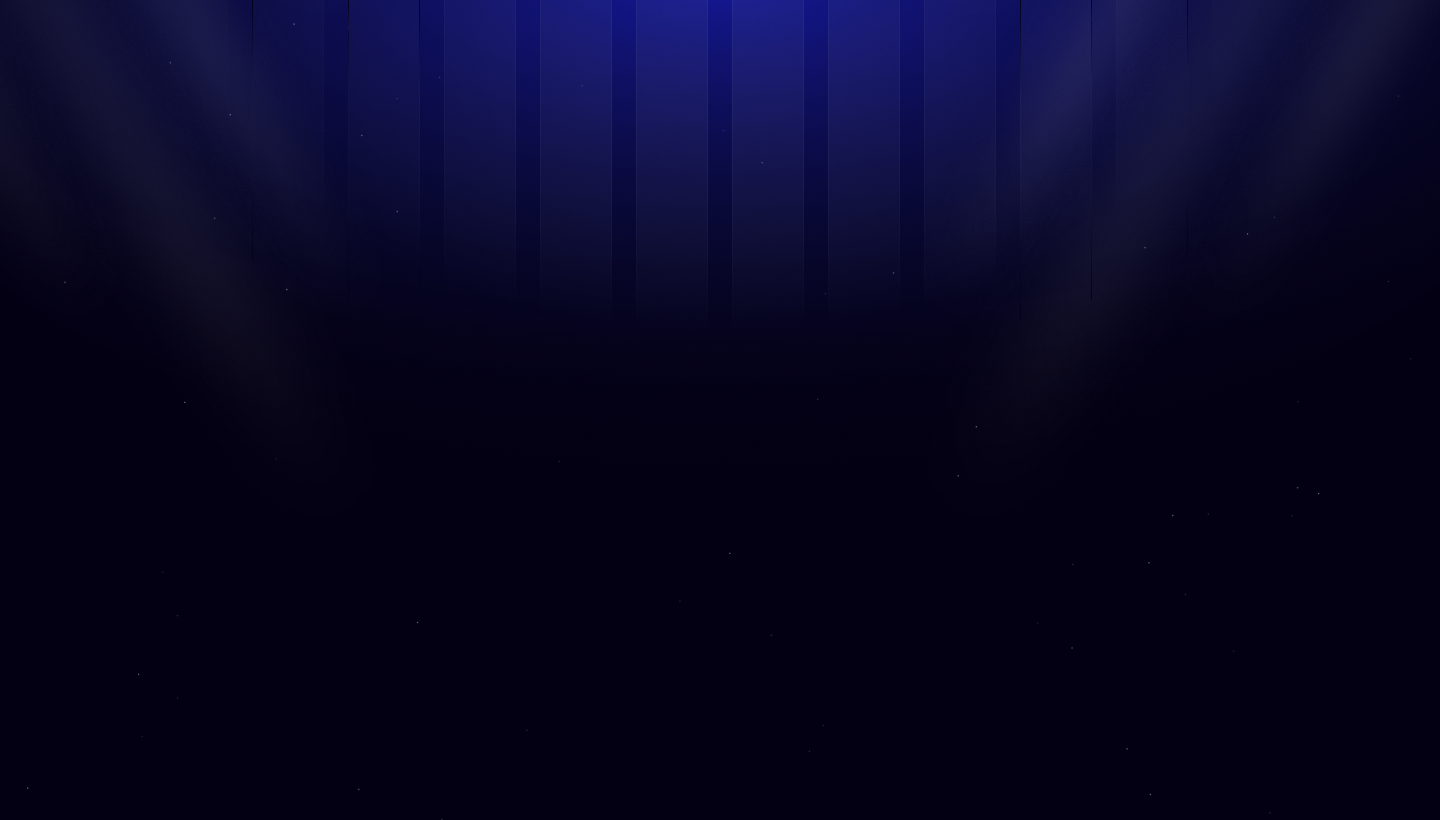
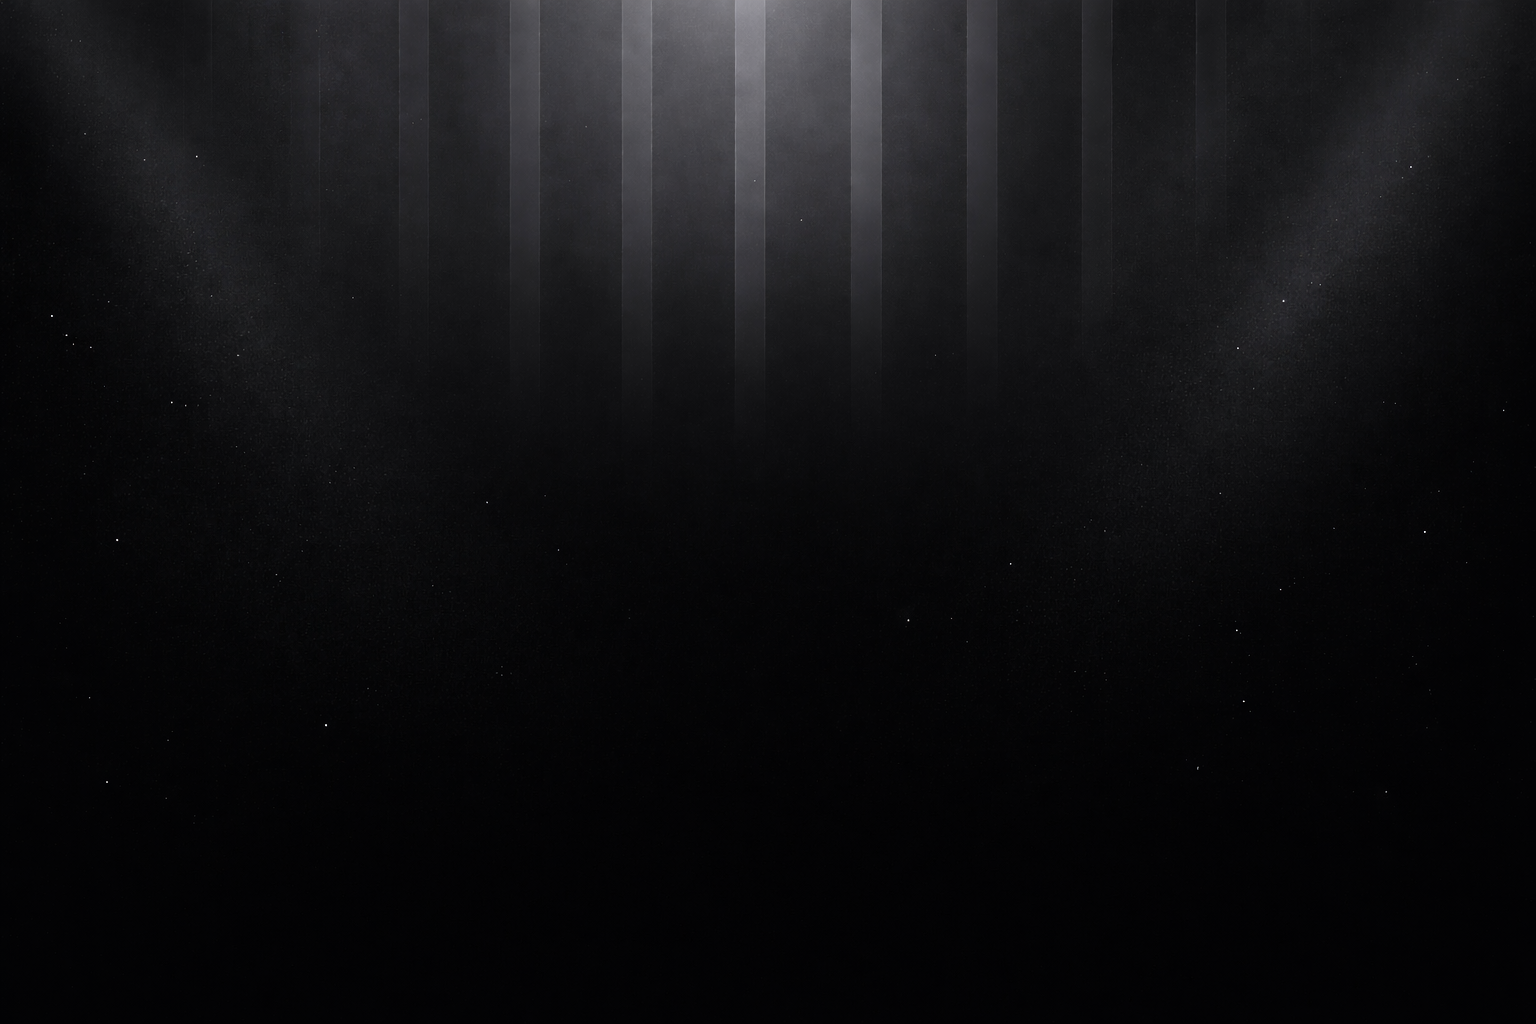
remade the theme of the website to a more darker vibe

Changed region(s): [[0.0, 0.0, 0.9688, 0.3963], [0.9688, 0.0, 1.0, 0.0305]]

diff --git a/Movie-react/src/components/Spinner.jsx b/Movie-react/src/components/Spinner.jsx
@@ -1,0 +1,17 @@
+import React from 'react'
+
+const Spinner = () => {
+  return (
+    <div>
+<div role="status">
+    <svg aria-hidden="true" class="w-8 h-8 text-neutral-tertiary animate-spin fill-zinc-700 hover:fill-zinc-600" viewBox="0 0 100 101" fill="none" xmlns="http://www.w3.org/2000/svg">
+        <path d="M100 50.5908C100 78.2051 77.6142 100.591 50 100.591C22.3858 100.591 0 78.2051 0 50.5908C0 22.9766 22.3858 0.59082 50 0.59082C77.6142 0.59082 100 22.9766 100 50.5908ZM9.08144 50.5908C9.08144 73.1895 27.4013 91.5094 50 91.5094C72.5987 91.5094 90.9186 73.1895 90.9186 50.5908C90.9186 27.9921 72.5987 9.67226 50 9.67226C27.4013 9.67226 9.08144 27.9921 9.08144 50.5908Z" fill="currentColor"/>
+        <path d="M93.9676 39.0409C96.393 38.4038 97.8624 35.9116 97.0079 33.5539C95.2932 28.8227 92.871 24.3692 89.8167 20.348C85.8452 15.1192 80.8826 10.7238 75.2124 7.41289C69.5422 4.10194 63.2754 1.94025 56.7698 1.05124C51.7666 0.367541 46.6976 0.446843 41.7345 1.27873C39.2613 1.69328 37.813 4.19778 38.4501 6.62326C39.0873 9.04874 41.5694 10.4717 44.0505 10.1071C47.8511 9.54855 51.7191 9.52689 55.5402 10.0491C60.8642 10.7766 65.9928 12.5457 70.6331 15.2552C75.2735 17.9648 79.3347 21.5619 82.5849 25.841C84.9175 28.9121 86.7997 32.2913 88.1811 35.8758C89.083 38.2158 91.5421 39.6781 93.9676 39.0409Z" fill="currentFill"/>
+    </svg>
+    <span class="sr-only">Loading...</span>
+</div>
+</div>
+  )
+}
+
+export default Spinner

diff --git a/Movie-react/src/App.jsx b/Movie-react/src/App.jsx
@@ -1,5 +1,6 @@
 import React, { useEffect, useState } from "react";
 import Search from "./components/Search";
+import Spinner from "./components/Spinner";
 
 const API_BASE_URL = "https://api.themoviedb.org/3"
 
@@ -80,10 +81,10 @@ const App = () => {
         </header>
 
         <section className="all-movies">
-          <h2>All Movies</h2>
+          <h2 className="mt-[40px]">All Movies</h2>
 
           {isLoading ? (
-            <p className="text-white">Loading...</p>
+            <Spinner />
           ) : errorMessage ? (
             <p className="text-red-500">{errorMessage}</p>
           ) : (
